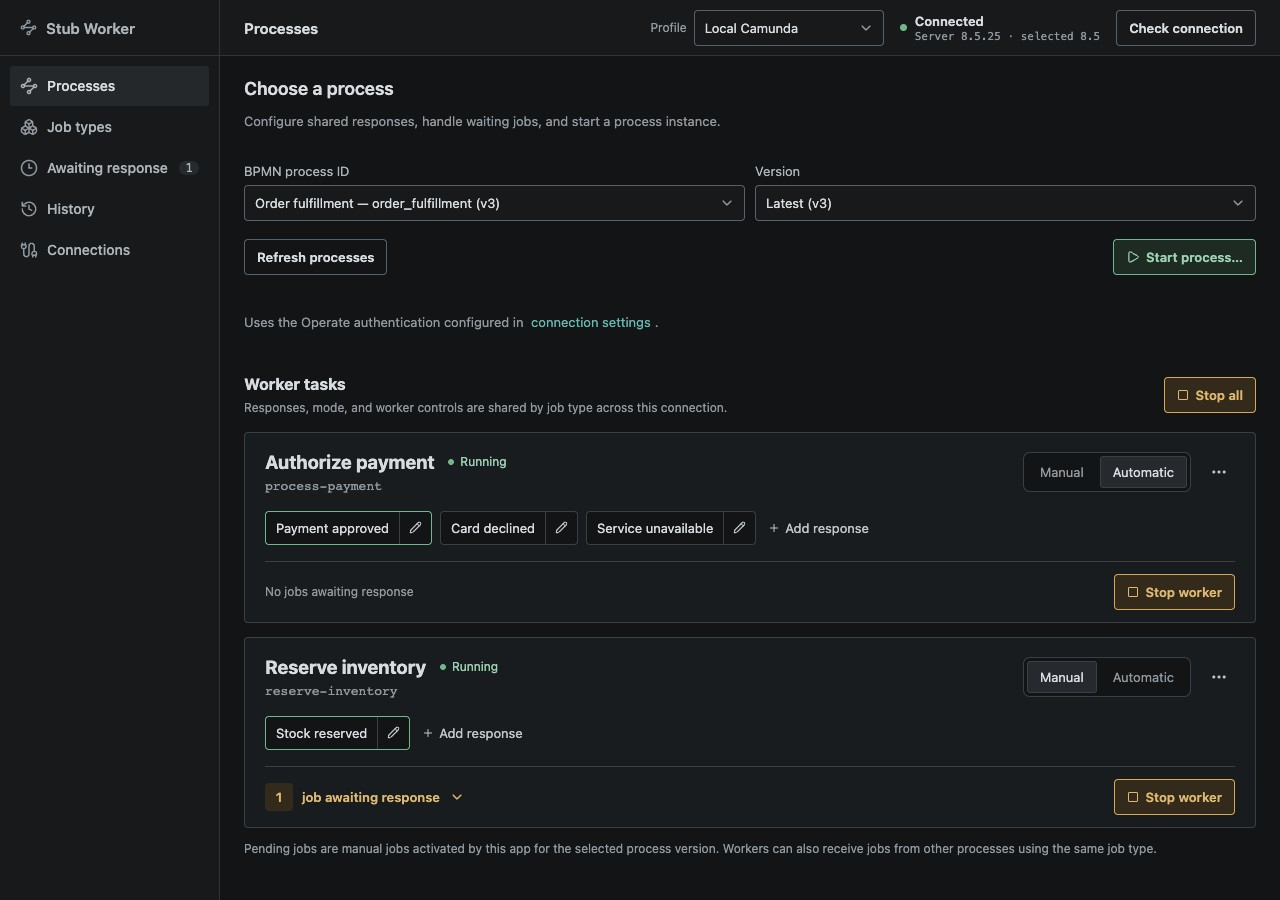
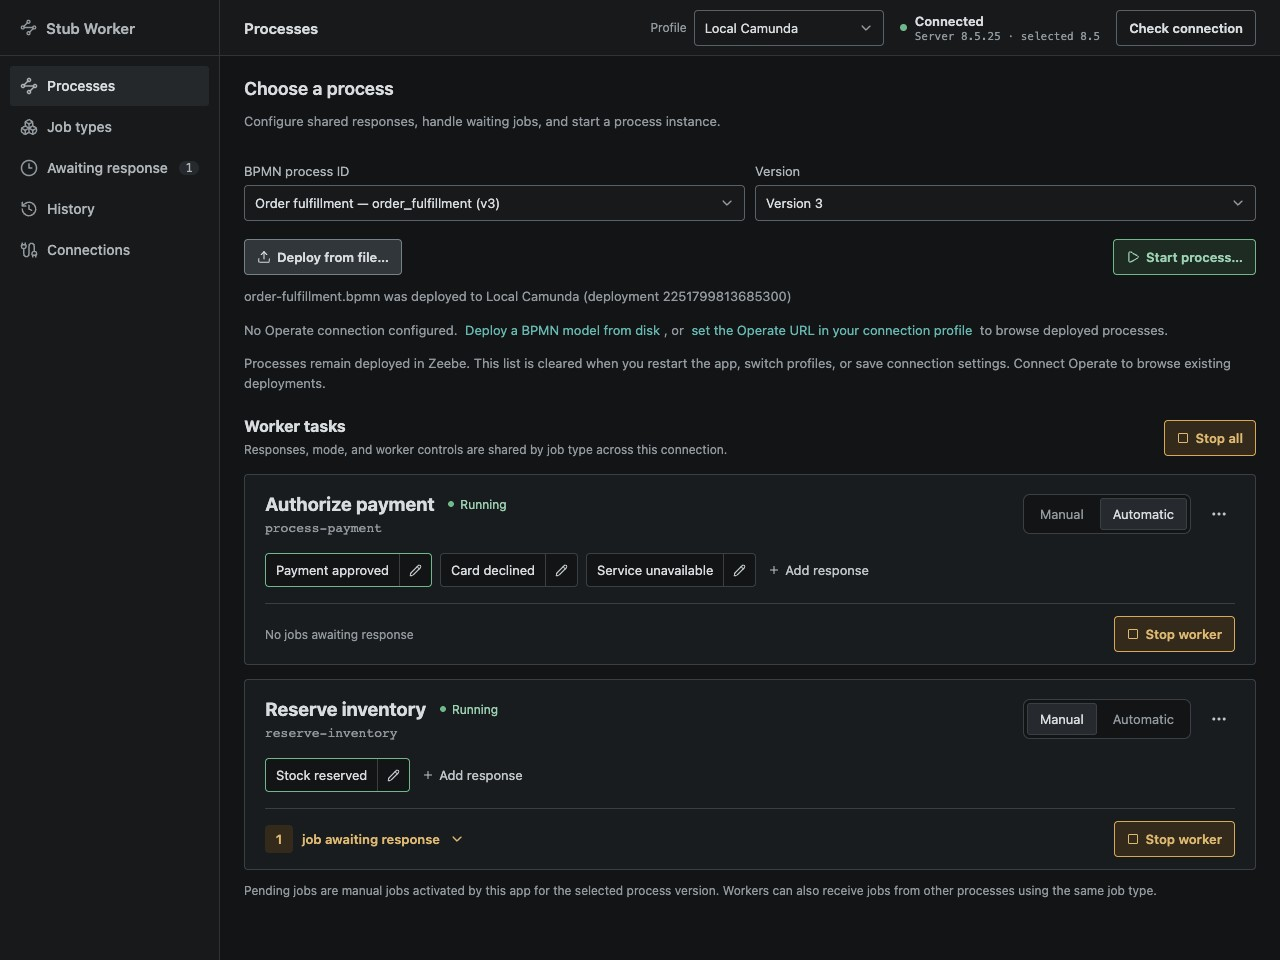
docs: prepare documentation and screenshots for v0.7.0

diff --git a/site/index.html b/site/index.html
@@ -24,7 +24,7 @@
         </div>
         <p class="platforms">macOS · Windows · Linux</p>
       </section>
-      <img class="screenshot" src="assets/processes.jpg" width="1280" height="900" alt="Processes screen with shared responses for payment and inventory worker tasks">
+      <img class="screenshot" src="assets/processes.jpg" width="1280" height="960" alt="Processes screen after deploying a BPMN file without Operate, with shared responses for payment and inventory tasks">
       <div class="features">
         <p><strong>Choose the outcome.</strong> Return success, throw a business error, or simulate a technical failure.</p>
         <p><strong>Control the response.</strong> Run automatically or inspect and respond to jobs manually.</p>
@@ -33,6 +33,7 @@
       <section class="feature-section" aria-labelledby="start-title">
         <h2 id="start-title">From deployment to process instance.</h2>
         <p>Browse deployed processes through the Operate API, or deploy a BPMN model from disk with one click. Choose a version, configure shared responses on its worker tasks, then open Start process to add JSON variables and get the new instance key. Without Operate you can deploy, configure workers, and start instances entirely from the app.</p>
+        <p class="note">Models stay deployed in Zeebe. The app's list of file deployments clears when you restart, switch profiles, or save connection settings. Connect Operate to reload existing deployments, or deploy the model again to select it without Operate. If a deployment result is uncertain, check Camunda before retrying.</p>
         <figure><img class="screenshot" src="assets/start-process.jpg" width="1280" height="820" loading="lazy" alt="Start process dialog showing Order fulfillment, input variables, and the created instance key"><figcaption>Start a process and see the instance confirmed by Camunda.</figcaption></figure>
       </section>
       <section class="feature-section" aria-labelledby="manual-title">

diff --git a/README.md b/README.md
@@ -6,7 +6,7 @@ Use it to explore happy paths, business errors, and technical failures while dev
 
 [Download the latest release](https://github.com/mishankov/camunda-stub-worker/releases/latest)
 
-![Process worker tasks and their shared response scenarios](docs/images/processes.jpg)
+![Process deployed from a BPMN file without Operate, with shared worker response scenarios](docs/images/processes.jpg)
 
 ## What you can do
 
@@ -95,6 +95,8 @@ xattr -dr com.apple.quarantine "/Applications/Camunda Stub Worker.app"
 ### Start a process
 
 Open **Processes**, first in the sidebar. Choose a deployed process - listed by Operate, or added with **Deploy from file…** - and a version (latest by default). Review its tasks and shared responses, then select **Start process…** to open the start dialog. Review the process and version, add your input variables as a JSON object, and select **Start process**. The result appears in the dialog. The app starts the displayed version. Manual process ID entry is not available: select a process from Operate or deploy a model from disk.
+
+**Deploy from file…** accepts a `.bpmn` model up to 8 MiB and selects the deployed process version after Camunda confirms the deployment. Models remain deployed in Zeebe, but the app's list of file deployments and their parsed tasks is cleared when you restart the app, switch profiles, or save connection settings. Operate can reload existing deployments; without it, deploy the model again to make it selectable. If a deployment result is uncertain, check Camunda before retrying: the model may already have been deployed.
 
 ![Start process with a deployed process selected, JSON variables, and returned instance keys](docs/images/start-process.jpg)
 
@@ -187,8 +189,8 @@ wails dev
 ### Checks
 
 ```bash
+cd frontend && npm ci && npm test && npm run check && npm run build && cd ..
 go test -race ./...
-cd frontend && npm run check && npm run build
 ```
 
 ### Production builds
